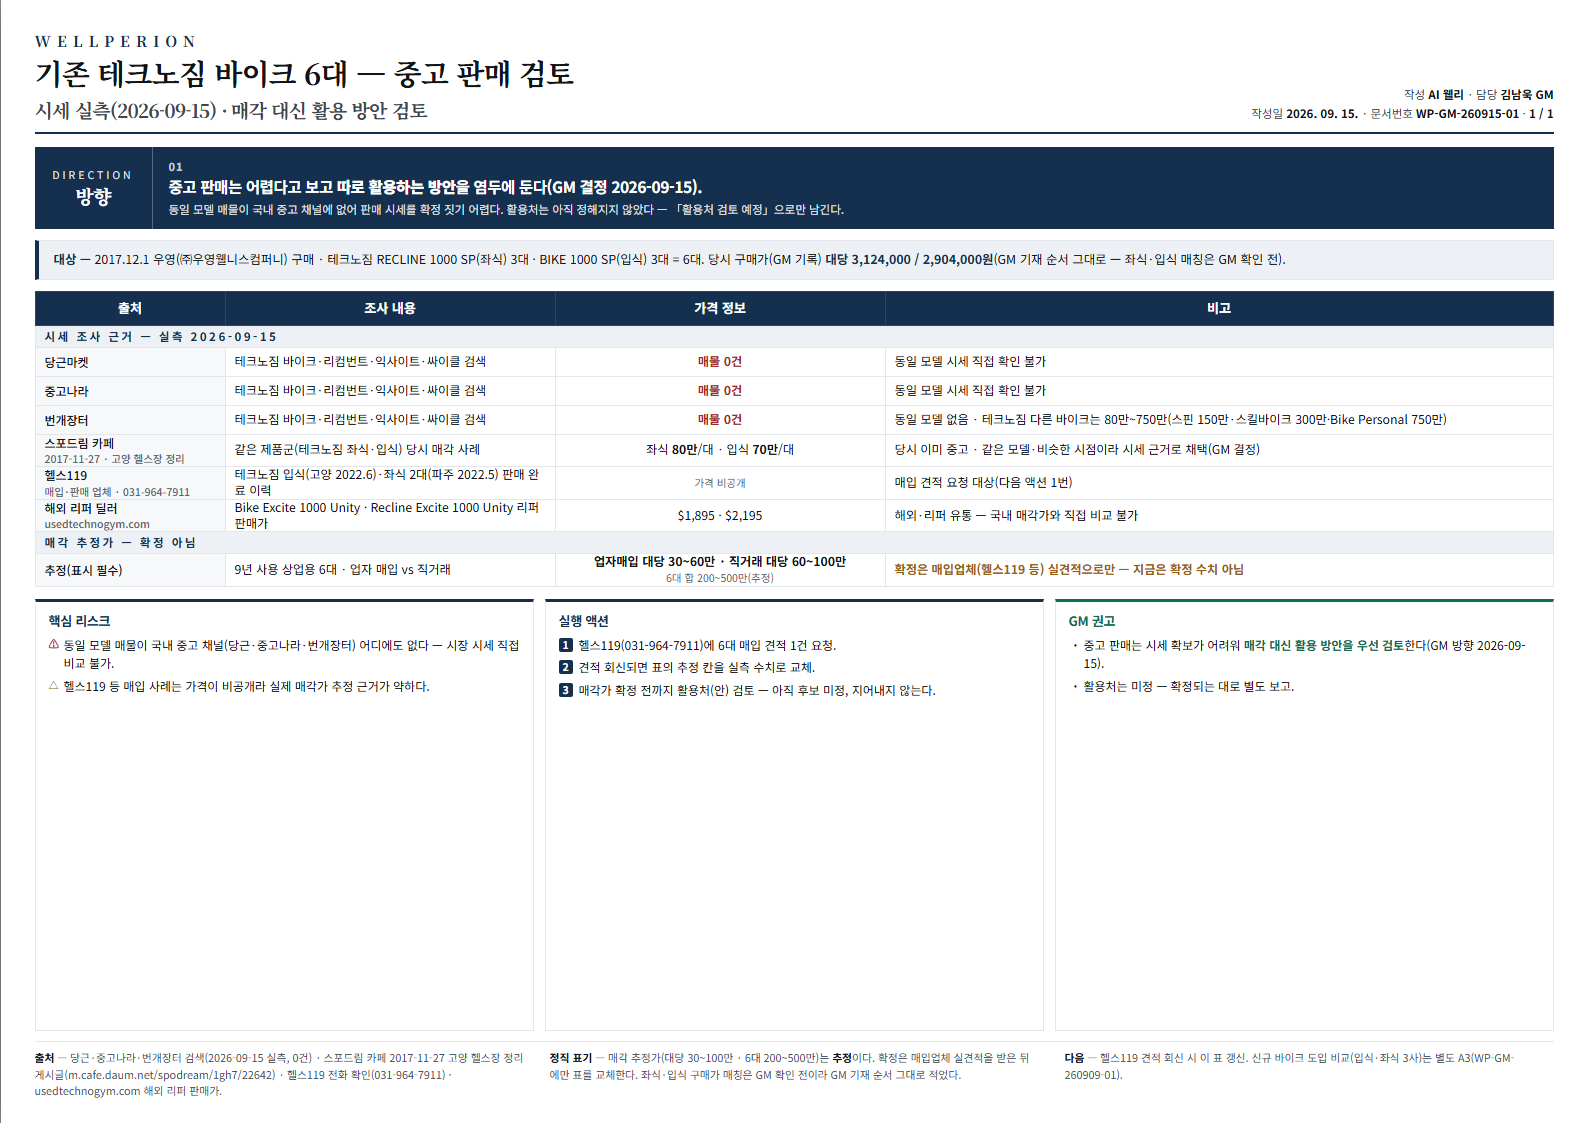
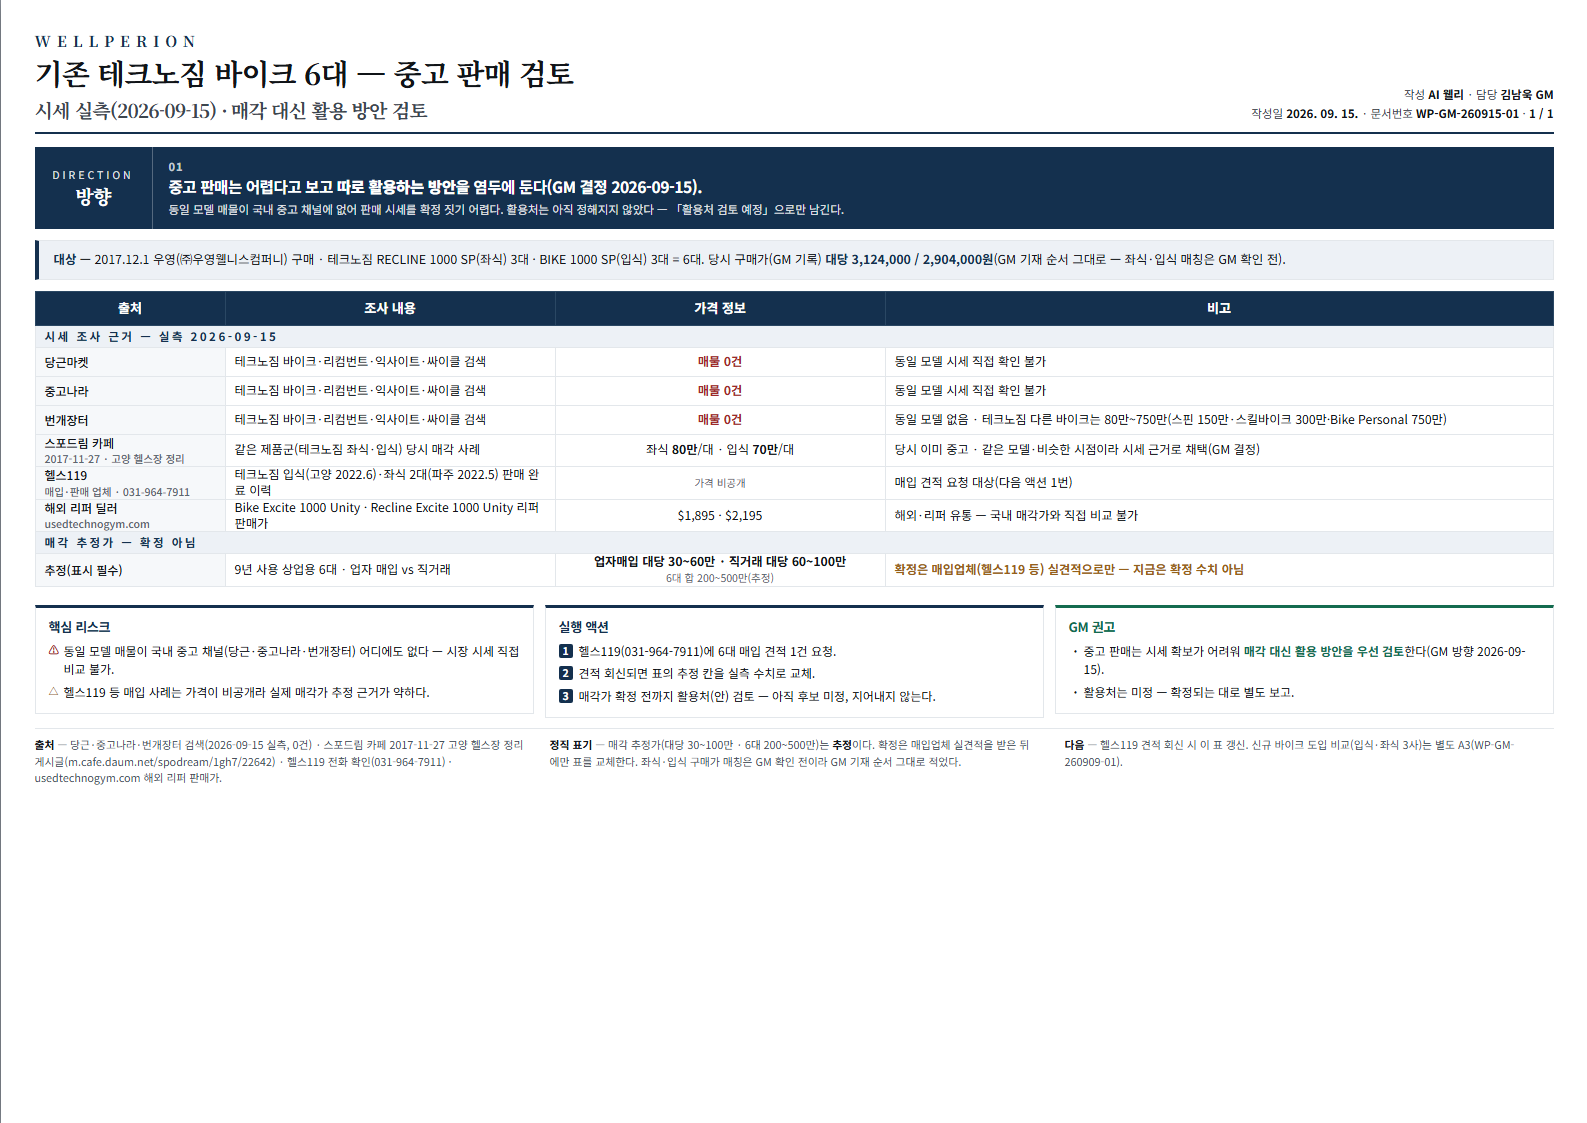
[웰리] 중고 바이크 A3 — 하단 3분할 박스 높이를 내용만큼으로 축소 (team-lead 지적)
Claude-Session: https://claude.ai/code/session_014iuE731rFTpGCrweMJ3EYo

diff --git a/3. 웰페리온 가이드/coo/chairman/260915_바이크_기존6대_중고판매검토_A3.html b/3. 웰페리온 가이드/coo/chairman/260915_바이크_기존6대_중고판매검토_A3.html
@@ -74,7 +74,7 @@
   .est{ color:#5C666F; font-size:10.5px; }
 
   /* ④ 3분할 */
-  .cols{ margin-top:12px; display:flex; gap:11px; flex:1; }
+  .cols{ margin-top:18px; display:flex; gap:11px; align-items:flex-start; }
   .box{ flex:1; border:1px solid var(--line); border-top:3px solid var(--navy); padding:9px 13px 8px; }
   .box h3{ font-size:13px; font-weight:700; color:var(--navy); letter-spacing:-.3px; margin-bottom:6px; }
   .box ul{ list-style:none; }
